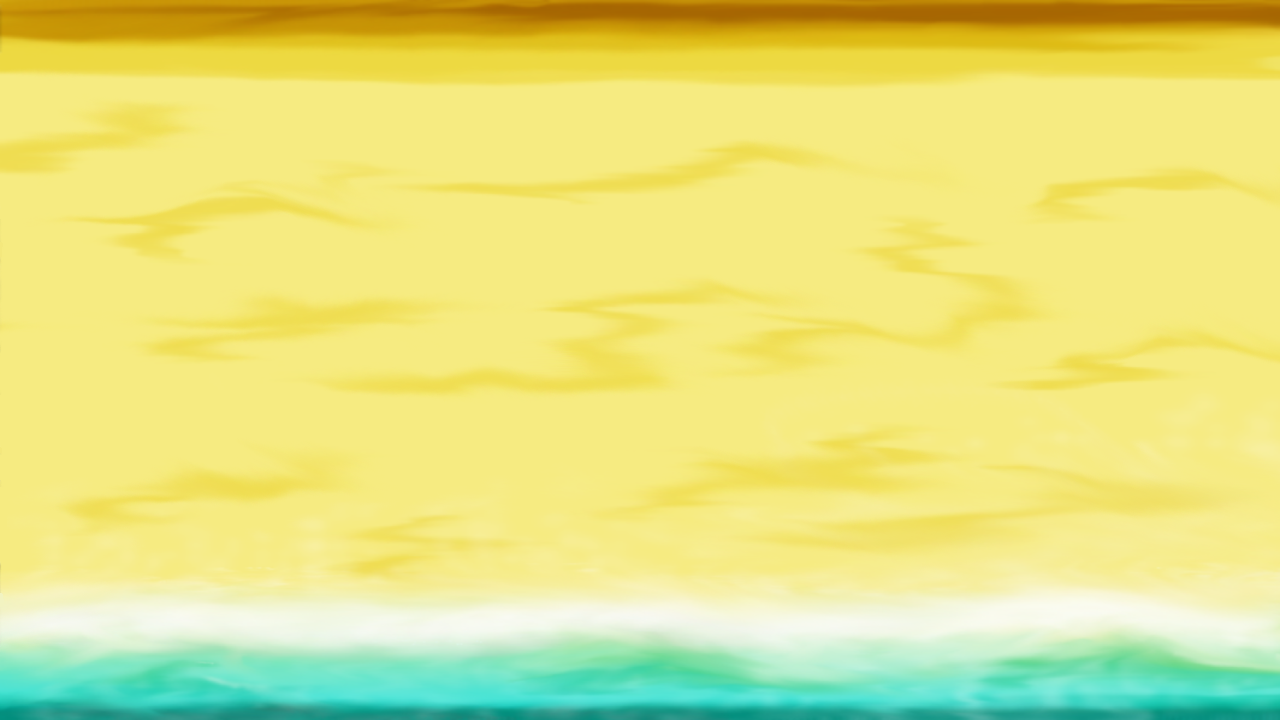
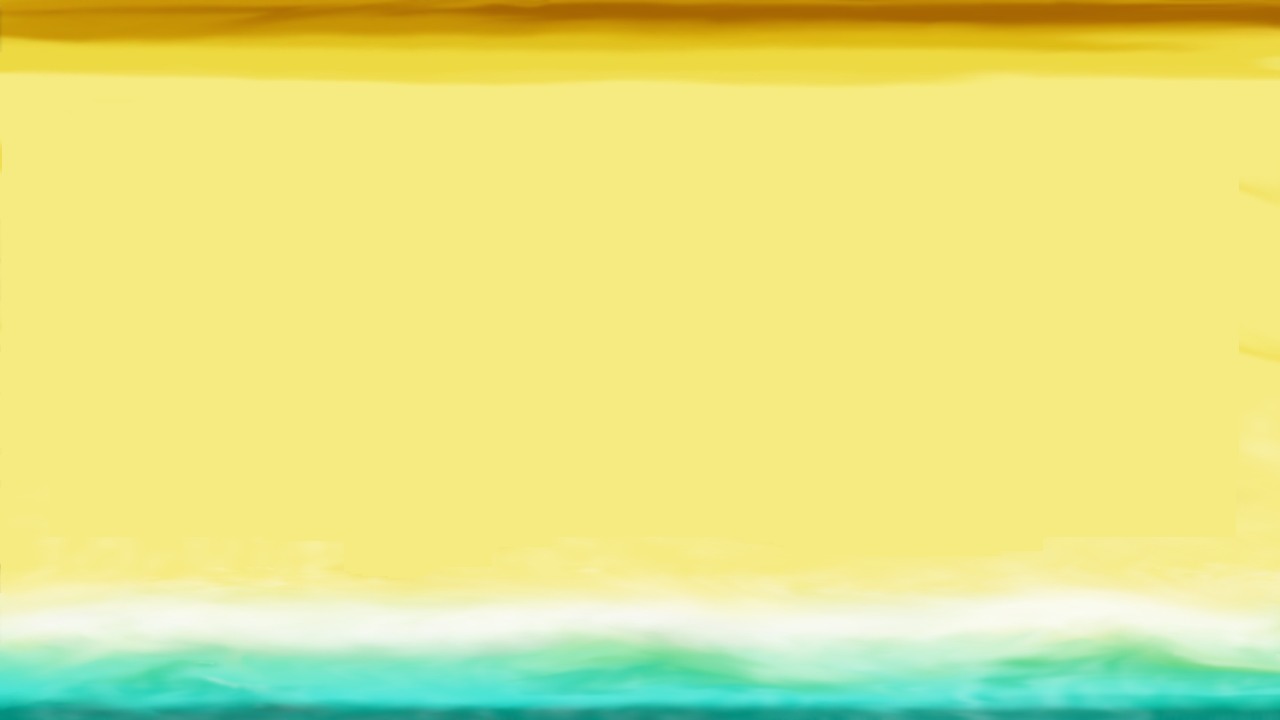
"add images"

diff --git a/src/org/academiadecodigo/murlogs/cleanocean/Game.java b/src/org/academiadecodigo/murlogs/cleanocean/Game.java
@@ -54,7 +54,7 @@ public class Game implements KeyboardHandler {
     int countTrash = 0;
 
     public Game(GridType gridType, int cols, int rows, int delay) {
-        grid = GridFactory.makeGrid(gridType, cols, rows, "Sand1280x720.png");
+        grid = GridFactory.makeGrid(gridType, cols, rows, "Sand1280x720s.png");
         this.cols = cols;
         this.rows = rows;
         this.delay = delay;
@@ -135,7 +135,7 @@ public class Game implements KeyboardHandler {
         }
 
 
-        String[] cleaners = {"pig40.png", "PIGG40.png", "pigga40.png", "cat40.png", "dog40.png"};
+        String[] cleaners = {"pig40.png", "PIGG40.png", "pigga40.png", "cat40.png", "dog40.png", "playerGari40.png", "playerGariCleaning40.png"};
         int pigs = (int) (Math.random() * cleaners.length);
 
         GridPosition gridPosition = grid.makeGridPosition(Main.COLS - 1, Main.ROWS - 5, cleaners[pigs]);
